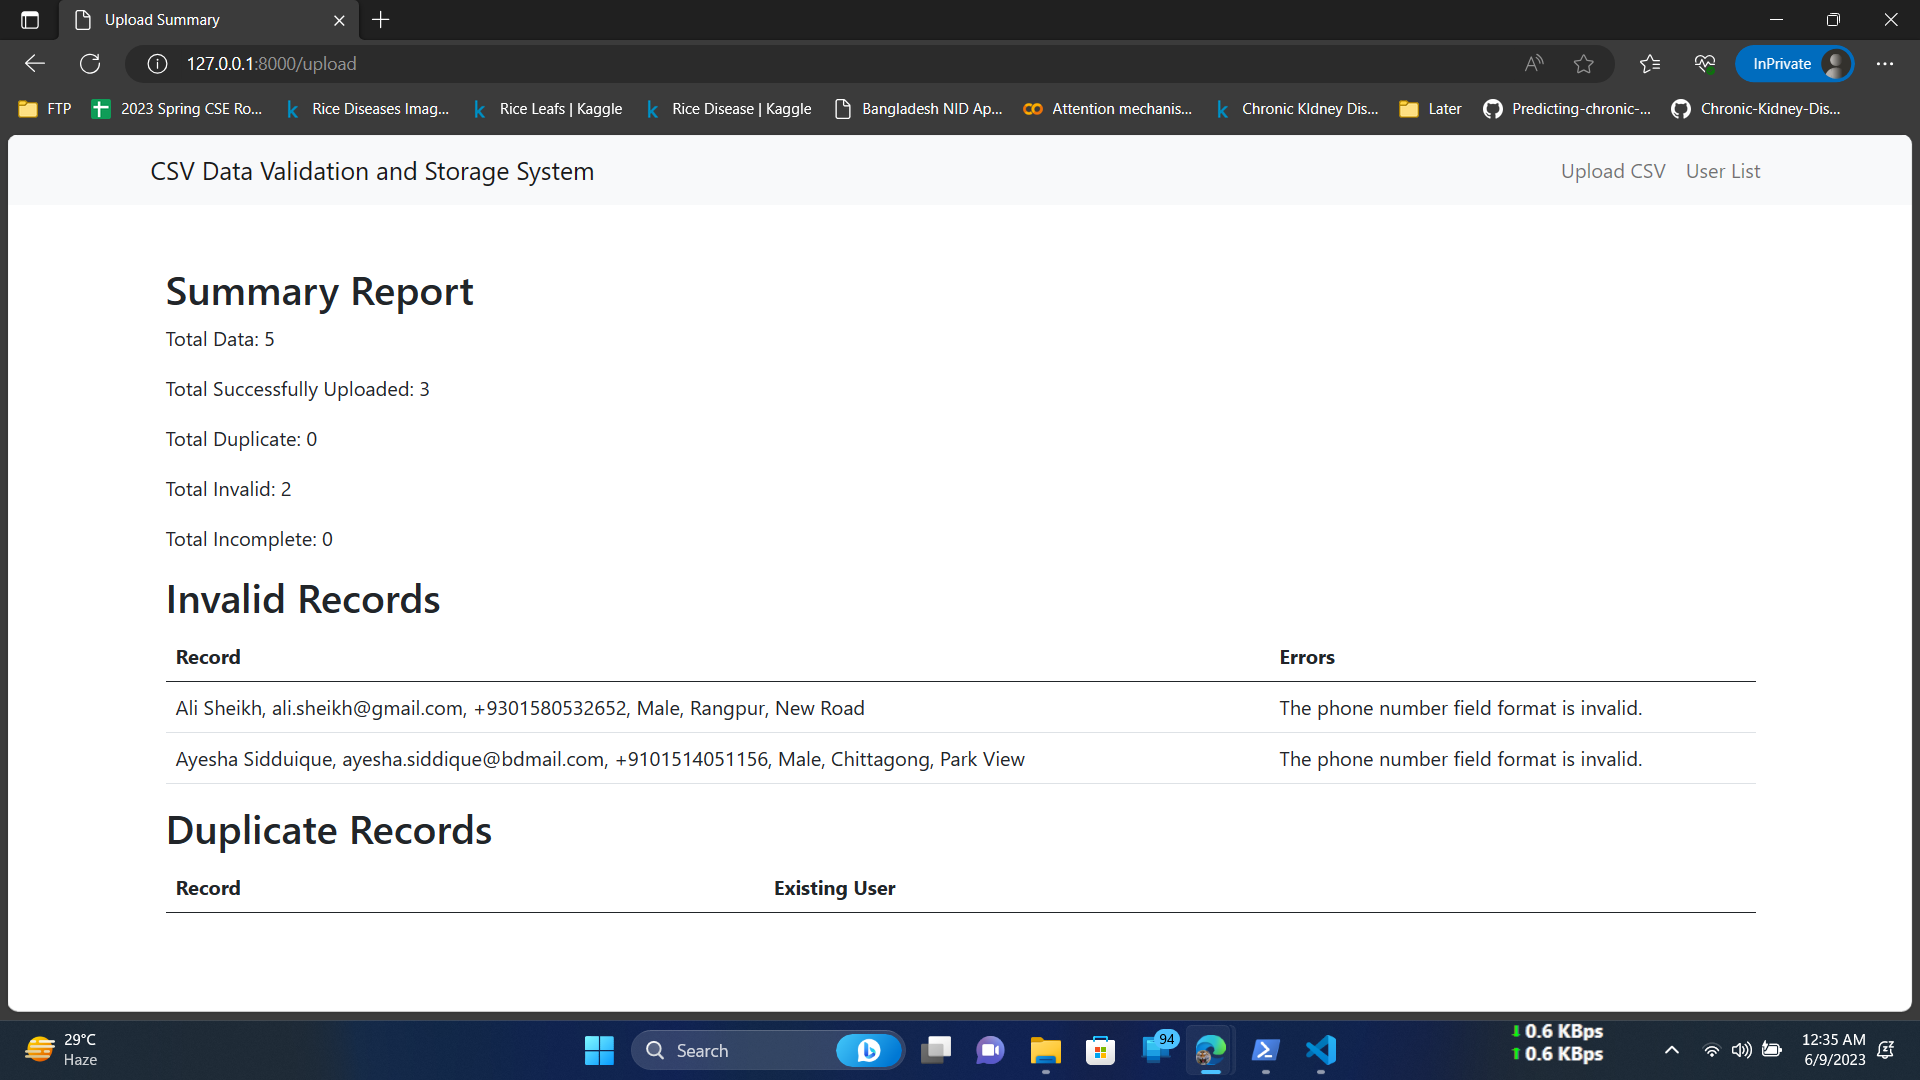
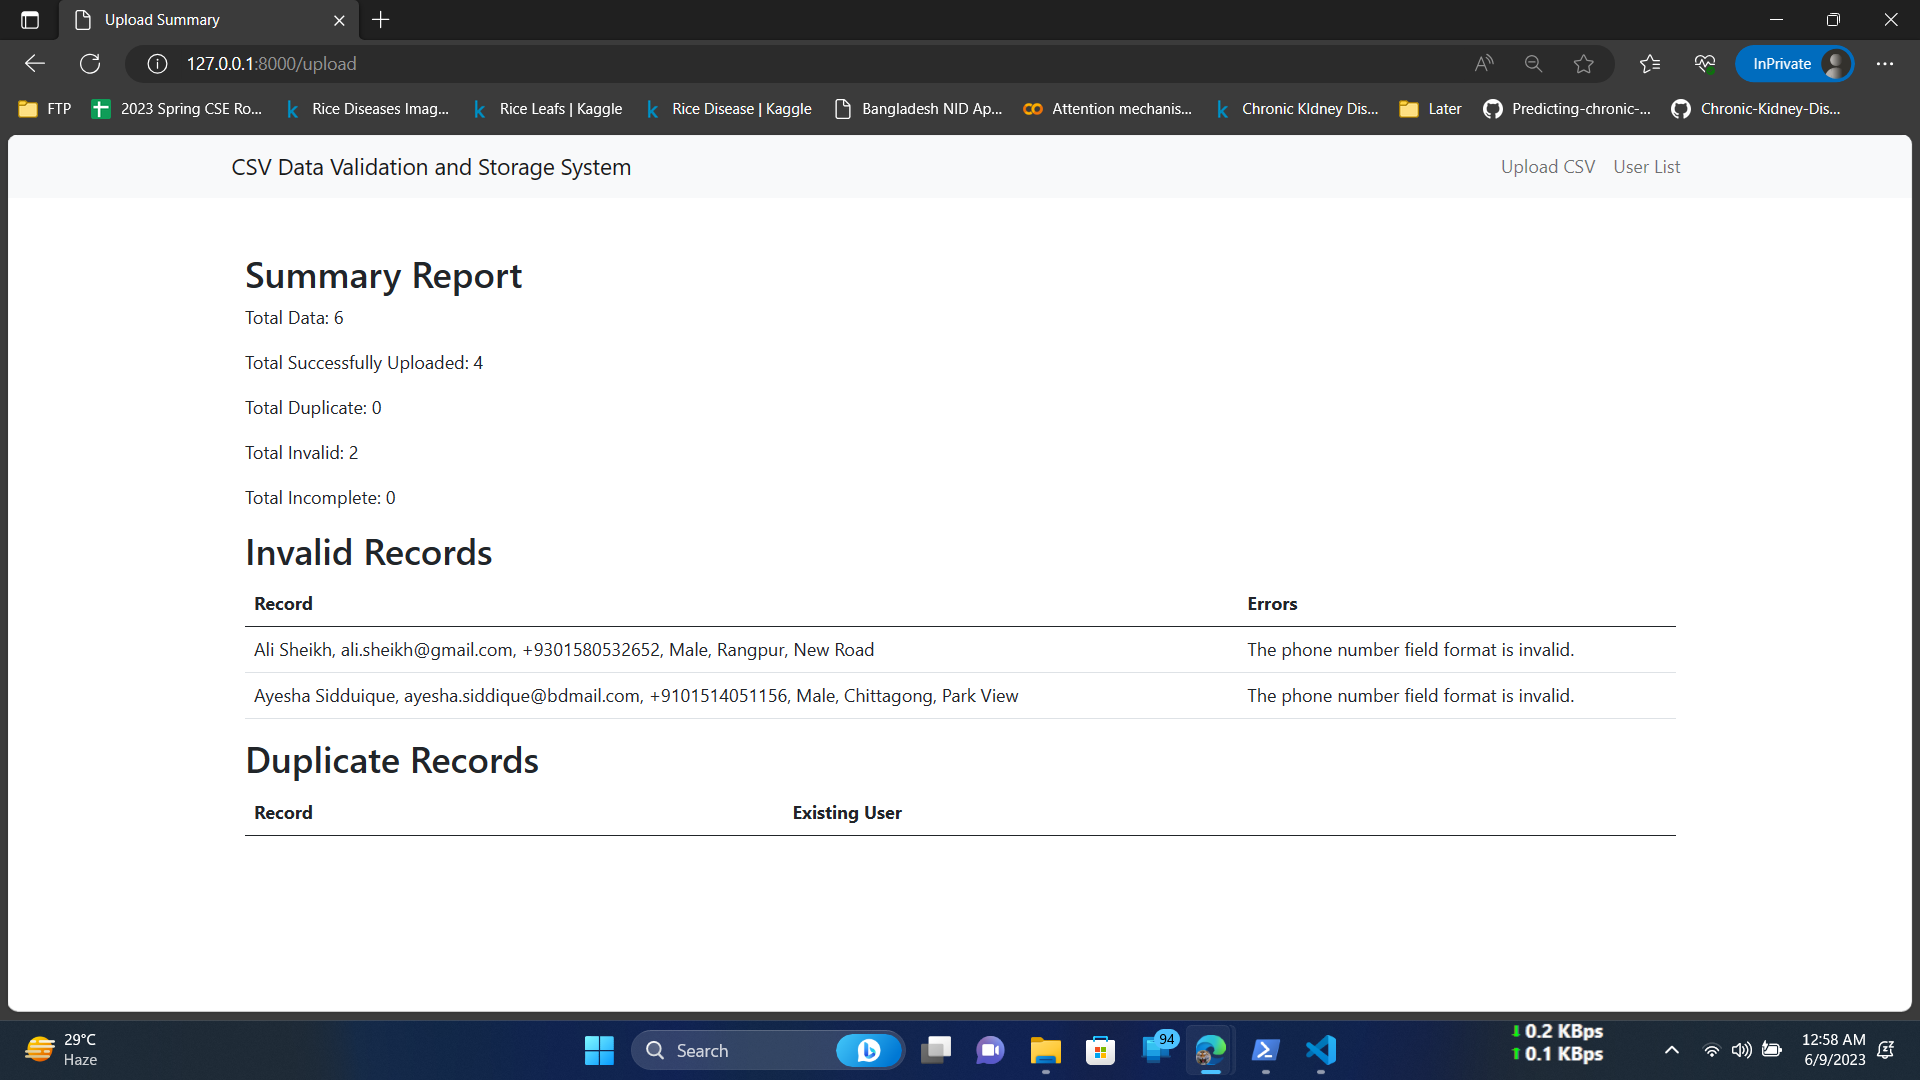
master

diff --git a/README.md b/README.md
@@ -53,7 +53,10 @@ The CSV Data Validation and Storage System is a web application built using the 
 *Screenshot 3: List of stored users with filtering options.*
 
 ![Upload another CSV](screenshots/upload_another.png)
-*Screenshot 3: Uploading another CSV file.*
+*Screenshot 4: Uploading another CSV file.*
+
+![Another Summary Report](screenshots/summary_another.png)
+*Screenshot 5: Summary report of the another uploaded data.*
 
 ## Features
 - File upload functionality with CSV validation.
